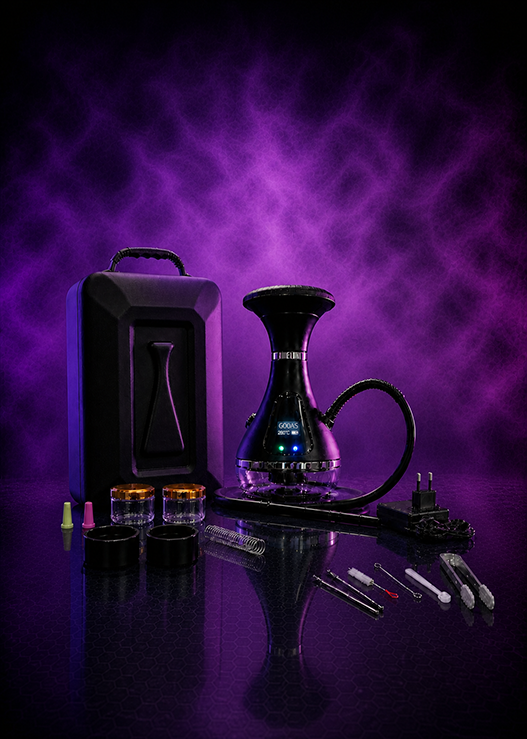
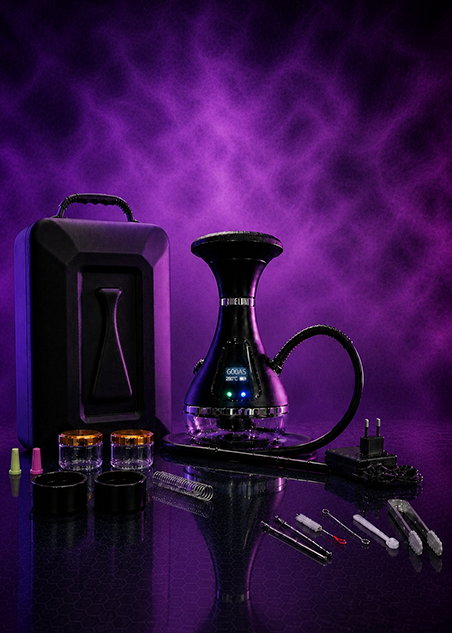
feat: improved images

diff --git a/styles/style.css b/styles/style.css
@@ -12,7 +12,7 @@ html {
   -ms-text-size-adjust: 100%;
   text-size-adjust: 100%;
   -webkit-tap-highlight-color: transparent;
-  scroll-behavior: smooth; /* Плавный скролл силами браузера */
+  scroll-behavior: smooth;
 }
 
 body {
@@ -565,19 +565,9 @@ section {
 
 .demo {
   width: 100%;
-  /* Удаляем жесткую min-height, иначе на 320px блок останется огромным, а картинка сожмется */
-  /* min-height: 700px; */
-
-  /* Автоматически управляет высотой в зависимости от ширины */
   aspect-ratio: 16 / 9;
-
-  /* Меняем cover на contain, чтобы картинка всегда была видна целиком */
   background: url("../images/hookahs.png") bottom/contain no-repeat;
-
-  /* Плавный переход для адаптивности (при изменении размеров окна) */
   transition: all 0.3s ease;
-
-  /* Ваши флексы остаются без изменений */
   display: -webkit-box;
   display: -webkit-flex;
   display: -ms-flexbox;
@@ -607,7 +597,8 @@ section {
   border: 1px solid rgba(255, 255, 255, 0.05);
   -webkit-transition: all 0.3s ease;
   transition: all 0.3s ease;
-  min-height: 400px
+  min-height: 400px;
+  max-height: 526px;
 }
 
 .product-wide-card:hover {
@@ -617,10 +608,21 @@ section {
   background: #1e1e21
 }
 
+.product-wide-card:hover img {
+  transform: scale(1.05);
+}
+
 .product-part {
   position: relative;
   overflow: hidden;
   height: 100%
+}
+
+.hookah-small-accessories__mobile,
+.hookah-small__mobile,
+.hookah-big-accessories__mobile,
+.hookah-big__mobile {
+  display: none;
 }
 
 .product-part img, .photo-kit img {
@@ -656,21 +658,6 @@ section {
 .hookah-small img {
   -o-object-position: 56%;
   object-position: 56%
-}
-
-.hookah-big img {
-  -webkit-transform: scale(1.4) translateZ(0);
-  transform: scale(1.4) translateZ(0)
-}
-
-.product-wide-card:hover .hookah-small img, .product-wide-card:hover .photo-kit img {
-  -webkit-transform: scale(1.05) translateZ(0);
-  transform: scale(1.05) translateZ(0)
-}
-
-.product-wide-card:hover .hookah-big img {
-  -webkit-transform: scale(1.45) translateZ(0);
-  transform: scale(1.45) translateZ(0)
 }
 
 .info-main {
@@ -722,16 +709,6 @@ section {
   font-size: 2.5rem;
   font-weight: 800;
   color: #ffffff
-}
-
-.hookah-small-accessories img {
-  -webkit-transform: scale(1.2) translateZ(0);
-  transform: scale(1.2) translateZ(0)
-}
-
-.product-wide-card:hover .hookah-small-accessories img {
-  -webkit-transform: scale(1.25) translateZ(0);
-  transform: scale(1.25) translateZ(0)
 }
 
 .hookah-small-accessories__desctop {

diff --git a/scripts/script.js b/scripts/script.js
@@ -1,11 +1,10 @@
 (function() {
   'use strict';
 
-  // Polyfill для Element.matches (IE11)
   if (!Element.prototype.matches) {
     Element.prototype.matches = Element.prototype.msMatchesSelector || Element.prototype.webkitMatchesSelector;
   }
-  // Polyfill для Element.closest (IE11)
+
   if (!Element.prototype.closest) {
     Element.prototype.closest = function(selector) {
       var el = this;
@@ -17,7 +16,6 @@
     };
   }
 
-  // Кроссбраузерный DOM Ready
   function onDOMReady(callback) {
     if (document.readyState === 'loading') {
       document.addEventListener('DOMContentLoaded', callback);
@@ -26,19 +24,16 @@
     }
   }
 
-  // Утилита: ширина скроллбара
   function getScrollbarWidth() {
     return window.innerWidth - document.documentElement.clientWidth;
   }
 
-  // ===== MAIN INIT =====
   onDOMReady(function() {
     initAccordion();
     initMobileMenu();
     initYear();
   });
 
-  // ===== АККОРДЕОН =====
   function initAccordion() {
     var accordionItems = document.querySelectorAll('.accordion-item');
     for (var i = 0; i < accordionItems.length; i++) {
@@ -52,7 +47,6 @@
 
           var isOpen = item.classList.contains('active');
 
-          // Закрыть все
           for (var j = 0; j < accordionItems.length; j++) {
             var otherItem = accordionItems[j];
             var otherBody = otherItem.querySelector('.accordion-body');
@@ -62,7 +56,6 @@
             if (otherHeader) otherHeader.setAttribute('aria-expanded', 'false');
           }
 
-          // Открыть текущий
           if (!isOpen) {
             var body = item.querySelector('.accordion-body');
             if (body) {
@@ -75,7 +68,6 @@
       })(accordionItems[i]);
     }
 
-    // Пересчёт при ресайзе
     window.addEventListener('resize', function() {
       var activeItems = document.querySelectorAll('.accordion-item.active');
       for (var k = 0; k < activeItems.length; k++) {
@@ -85,12 +77,12 @@
     });
   }
 
-  // ===== МОБИЛЬНОЕ МЕНЮ =====
   function initMobileMenu() {
     var burgerBtn = document.getElementById('burgerBtn');
     var mobileMenu = document.getElementById('mobileMenu');
     var body = document.body;
     var menuLinks = document.querySelectorAll('.nav-list-mobile a');
+    var menuCallButton = mobileMenu.querySelector('.btn-primary');
 
     if (!burgerBtn || !mobileMenu) return;
 
@@ -128,7 +120,10 @@
       menuLinks[l].addEventListener('click', function() { closeMenu(); });
     }
 
-    // Escape & Overlay click
+    if (menuCallButton) {
+      menuCallButton.addEventListener('click', function() { closeMenu(); });
+    }
+
     document.addEventListener('keydown', function(e) {
       e = e || window.event;
       if ((e.keyCode || e.which) === 27 && mobileMenu.classList.contains('active')) closeMenu();
@@ -138,7 +133,6 @@
     });
   }
 
-  // ===== ГОД В ФУТЕРЕ =====
   function initYear() {
     var yearEl = document.getElementById('year');
     if (yearEl) yearEl.textContent = new Date().getFullYear();

diff --git a/index.html b/index.html
@@ -55,7 +55,7 @@
             <li><a href="#contacts">Контакты</a></li>
             <li><a href="#faq">FAQ</a></li>
         </ul>
-        <a href="tel:[phone redacted]" class="btn btn-primary">Позвонить</a>
+        <a href="#contacts" class="btn btn-primary">Позвонить</a>
     </nav>
 </div>
 
@@ -176,7 +176,8 @@
             <div class="catalog-wide-list">
                 <div class="product-wide-card">
                     <div class="product-part hookah-small">
-                        <img src="images/hookah-small.png" alt="Электрокальян E-Hookah Air One малый">
+                        <img class="hookah-small__desc" src="images/hookah-small_desc.png" alt="Электрокальян E-Hookah Air One малый">
+                        <img class="hookah-small__mobile" src="images/hookah-small_mobile.png" alt="Электрокальян E-Hookah Air One малый">
                     </div>
                     <div class="product-part info-main">
                         <div class="info-content">
@@ -191,7 +192,7 @@
                         </div>
                     </div>
                     <div class="product-part photo-kit hookah-small-accessories">
-                        <img class="hookah-small-accessories__desctop" src="images/hookah-small-accessories-desc.png" alt="Комплектация малого кальяна">
+                        <img class="hookah-small-accessories__desc" src="images/hookah-small-accessories-desc.png" alt="Комплектация малого кальяна">
                         <img class="hookah-small-accessories__mobile" src="images/hookah-small-accessories-mob.png" alt="Комплектация малого кальяна">
                     </div>
                 </div>
@@ -199,7 +200,8 @@
             <div class="catalog-wide-list">
                 <div class="product-wide-card">
                     <div class="product-part hookah-big">
-                        <img src="images/hookah-big.png" alt="Электрокальян E-Hookah Air One большой">
+                        <img class="hookah-big__desc" src="images/hookah-big_desc.png" alt="Электрокальян E-Hookah Air One большой">
+                        <img class="hookah-big__mobile" src="images/hookah-big_mobile.png" alt="Электрокальян E-Hookah Air One большой">
                     </div>
                     <div class="product-part info-main">
                         <div class="info-content">
@@ -214,8 +216,8 @@
                         </div>
                     </div>
                     <div class="product-part photo-kit">
-                        <img class="hookah-small-accessories__desctop" src="images/hookah-big-accessories-desc.png" alt="Комплектация большого кальяна">
-                        <img class="hookah-small-accessories__mobile" src="images/hookah-big-accessories-mob.png" alt="Комплектация большого кальяна">
+                        <img class="hookah-big-accessories__desc" src="images/hookah-big-accessories-desc.png" alt="Комплектация большого кальяна">
+                        <img class="hookah-big-accessories__mobile" src="images/hookah-big-accessories-mob.png" alt="Комплектация большого кальяна">
                     </div>
                 </div>
             </div>

diff --git a/styles/adaptive.css b/styles/adaptive.css
@@ -1,14 +1,21 @@
 @media screen and (max-width: 1024px) {
   .product-wide-card {
     -ms-grid-columns: 1fr;
-    grid-template-columns:1fr
+    grid-template-columns:1fr;
+    max-height: none;
   }
 
-  .hookah-small-accessories__desctop {
+  .hookah-small-accessories__desc,
+  .hookah-small__desc,
+  .hookah-big-accessories__desc,
+  .hookah-big__desc {
     display: none
   }
 
-  .hookah-small-accessories__mobile {
+  .hookah-small-accessories__mobile,
+  .hookah-small__mobile,
+  .hookah-big-accessories__mobile,
+  .hookah-big__mobile{
     display: block
   }
 
@@ -186,7 +193,6 @@
   }
 
   .demo {
-    /* На мобильных 100vh может быть слишком много, переводим на авто-высоту по пропорции */
     height: auto;
   }
 }